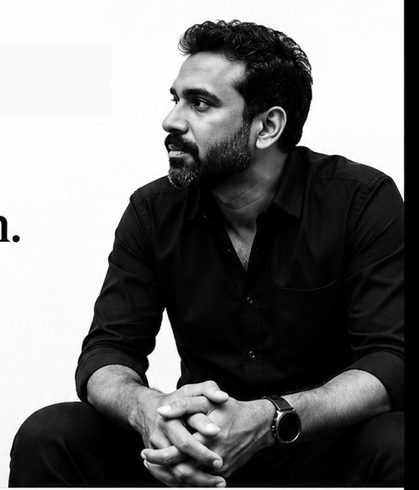
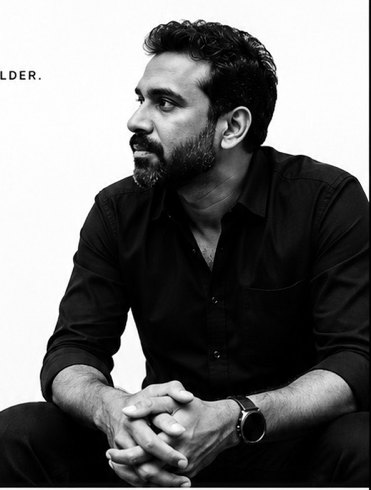
Add files via upload

diff --git a/inner.css b/inner.css
@@ -1,0 +1,79 @@
+:root{--paper:#f7f6f2;--ink:#101010;--muted:#5e5e5e;--line:#d9d7d0;--card:#fcfbf8;--soft:#efede7}
+*{box-sizing:border-box}
+html{scroll-behavior:smooth}
+body{margin:0;background:var(--paper);color:var(--ink);font-family:-apple-system,BlinkMacSystemFont,"Segoe UI",Arial,sans-serif;line-height:1.6}
+a{color:inherit;text-decoration:none}
+img{max-width:100%;display:block}
+.shell{width:min(1120px,calc(100% - 44px));margin:auto}
+header{height:104px;display:flex;align-items:center;border-bottom:1px solid var(--line)}
+.brand{font-size:1.03rem;font-weight:800;letter-spacing:.27em}
+.nav{margin-left:auto;display:flex;gap:25px;font-size:.76rem;letter-spacing:.11em;text-transform:uppercase;font-weight:700}
+.nav a{padding:8px 0}
+.nav a:hover{border-bottom:1px solid #111}
+.eyebrow,.kicker{font-size:.72rem;letter-spacing:.2em;text-transform:uppercase;font-weight:800}
+.page-hero{padding:92px 0 68px;border-bottom:1px solid var(--line)}
+.page-hero h1{font:500 clamp(3.6rem,7vw,6.7rem)/.92 Georgia,"Times New Roman",serif;letter-spacing:-.055em;margin:18px 0 26px;max-width:900px}
+.page-hero p{font-size:1.25rem;max-width:720px;color:#292929;margin:0}
+.page-hero .meta{margin-top:28px;font-size:.78rem;letter-spacing:.08em;text-transform:uppercase;color:var(--muted)}
+.section{padding:72px 0;border-bottom:1px solid var(--line)}
+.section-grid{display:grid;grid-template-columns:.78fr 1.22fr;gap:70px}
+.section h2{font:500 clamp(2.2rem,4vw,4.2rem)/1 Georgia,"Times New Roman",serif;letter-spacing:-.04em;margin:10px 0 18px}
+.section h3{font:600 1rem/1.4 Georgia,"Times New Roman",serif;margin:0 0 9px}
+.section p{margin:0 0 18px;color:#2c2c2c}
+.lede{font:500 clamp(1.8rem,3.6vw,3.2rem)/1.18 Georgia,"Times New Roman",serif;letter-spacing:-.03em;max-width:880px}
+.pullquote{font:500 clamp(2rem,4vw,3.8rem)/1.08 Georgia,"Times New Roman",serif;letter-spacing:-.035em;margin:0}
+.pullquote small{display:block;font:700 .68rem/1.5 -apple-system,BlinkMacSystemFont,"Segoe UI",Arial,sans-serif;text-transform:uppercase;letter-spacing:.17em;margin-top:22px}
+.stats{display:grid;grid-template-columns:repeat(4,1fr);border-top:1px solid var(--line);border-bottom:1px solid var(--line)}
+.stat{padding:28px 20px;text-align:center}
+.stat:not(:last-child){border-right:1px solid var(--line)}
+.stat strong{font:600 2.4rem/1 Georgia,"Times New Roman",serif;display:block}
+.stat span{display:block;font-size:.67rem;letter-spacing:.13em;text-transform:uppercase;font-weight:800;margin-top:9px}
+.timeline{display:grid;gap:0;border-top:1px solid var(--line)}
+.timeline-row{display:grid;grid-template-columns:130px 1fr;padding:25px 0;border-bottom:1px solid var(--line)}
+.timeline-row .year{font:600 1.18rem Georgia,serif}
+.timeline-row h3{margin:0 0 5px}
+.proof-grid,.cards{display:grid;grid-template-columns:repeat(2,1fr);gap:18px}
+.proof,.panel{border:1px solid var(--line);border-radius:14px;padding:28px;background:rgba(255,255,255,.3)}
+.proof .num{font:600 1rem Georgia,serif;margin-bottom:35px}
+.proof h3,.panel h3{font-size:1.12rem}
+.stack{display:grid;gap:0;border-top:1px solid var(--line)}
+.stack-row{display:grid;grid-template-columns:55px 240px 1fr;gap:25px;padding:24px 0;border-bottom:1px solid var(--line)}
+.stack-row .num{font:600 1rem Georgia,serif}
+.case-nav{display:grid;grid-template-columns:repeat(3,1fr);gap:18px}
+.case-card{border:1px solid var(--line);border-radius:14px;overflow:hidden;background:rgba(255,255,255,.35)}
+.case-card img{height:190px;width:100%;object-fit:cover;filter:grayscale(1)}
+.case-copy{padding:24px}
+.case-copy .tag{font-size:.67rem;letter-spacing:.15em;text-transform:uppercase;font-weight:800}
+.case-copy h3{font:500 1.65rem/1.05 Georgia,serif;margin:12px 0 12px}
+.case-copy .more{font-size:.76rem;text-transform:uppercase;letter-spacing:.1em;font-weight:800;margin-top:18px}
+.cta{padding:72px 0}
+.cta-box{border:1px solid var(--line);border-radius:16px;padding:35px;background:rgba(255,255,255,.28)}
+.cta-box h2{font:500 clamp(2.4rem,5vw,4.8rem)/.98 Georgia,serif;letter-spacing:-.045em;margin:10px 0 18px}
+.btn{display:inline-block;border:1px solid #111;border-radius:999px;padding:12px 17px;font-size:.73rem;text-transform:uppercase;letter-spacing:.1em;font-weight:800;margin-top:10px}
+.btn.dark{background:#111;color:#fff}
+footer{border-top:1px solid var(--line);padding:28px 0 46px;color:#555;font-size:.8rem}
+.footer-inner{display:flex;justify-content:space-between;gap:18px}
+.footer-links{display:flex;gap:20px}
+.note{font-size:.86rem;color:var(--muted)}
+@media(max-width:850px){
+  .nav{display:none}
+  .section-grid{grid-template-columns:1fr;gap:28px}
+  .stats{grid-template-columns:repeat(2,1fr)}
+  .stat:nth-child(2){border-right:none}
+  .stat:nth-child(-n+2){border-bottom:1px solid var(--line)}
+  .proof-grid,.cards,.case-nav{grid-template-columns:1fr}
+  .stack-row{grid-template-columns:45px 1fr}
+  .stack-row>div:last-child{grid-column:2}
+}
+@media(max-width:560px){
+  .shell{width:min(100% - 28px,1120px)}
+  header{height:82px}.brand{font-size:.9rem;letter-spacing:.21em}
+  .page-hero{padding:62px 0 45px}
+  .page-hero h1{font-size:3.55rem}
+  .page-hero p{font-size:1.05rem}
+  .section{padding:50px 0}
+  .stats{grid-template-columns:1fr 1fr}
+  .stat{padding:21px 8px}.stat strong{font-size:2rem}
+  .timeline-row{grid-template-columns:85px 1fr}
+  .footer-inner{flex-direction:column}
+}

diff --git a/inner.js b/inner.js
@@ -1,0 +1,1 @@
+document.querySelectorAll('[data-year]').forEach(el => el.textContent = new Date().getFullYear());
